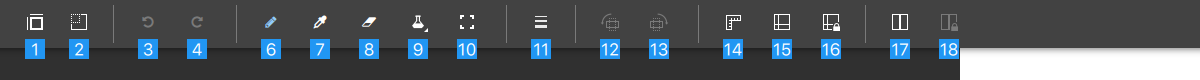
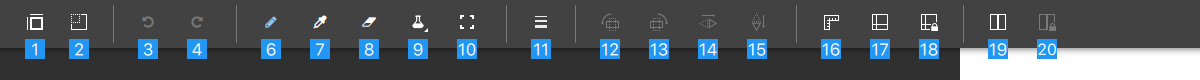
Update user-interface.md

Changed region(s): [[0.5858, 0.175, 0.8942, 0.4], [0.7092, 0.475, 0.8942, 0.75], [0.555, 0.475, 0.6783, 0.75]]

diff --git a/tests/manual/screenshots/resources/ToolBarMarkers.qml b/tests/manual/screenshots/resources/ToolBarMarkers.qml
@@ -39,6 +39,8 @@ Item {
             "toolSizeButton",
             "rotate90CcwToolButton",
             "rotate90CwToolButton",
+            "flipHorizontallyToolButton",
+            "flipVerticallyToolButton",
             "showRulersToolButton",
             "showGuidesToolButton",
             "lockGuidesToolButton",

diff --git a/doc/user-interface.md b/doc/user-interface.md
@@ -28,12 +28,14 @@
 10. Switches the current tool to the selection tool.
 11. Changes the size of drawing tools.
 12. Rotates the selection by 90 degrees counter-clockwise.
-13. Rotate the selection by 90 degrees clockwise.
-14. Shows rulers.
-15. Shows guides.
-16. Locks guides.
-17. Toggles split screen.
-18. Locks split screen splitter.
+13. Rotates the selection by 90 degrees clockwise.
+14. Flips the selection horizontally.
+15. Flips the selection vertically.
+16. Shows rulers.
+17. Shows guides.
+18. Locks guides.
+19. Toggles split screen.
+20. Locks split screen splitter.
 
 ## Colour
 
